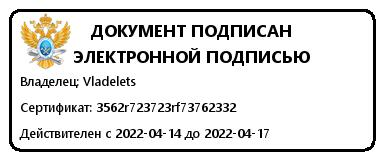
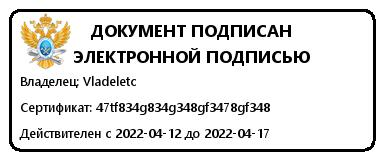
Начата абота над версией для командной строки

Changed region(s): [[0.25, 0.625, 0.7188, 0.7188], [0.4375, 0.8125, 0.4688, 0.875], [0.3438, 0.5, 0.375, 0.5312]]

diff --git a/src/main/java/com/webapi/application/CMDApplication.java b/src/main/java/com/webapi/application/CMDApplication.java
@@ -1,0 +1,158 @@
+package com.webapi.application;
+
+import com.webapi.application.controllers.FileUploadController;
+import com.webapi.application.handlers.Excel.ExcelHandler;
+import com.webapi.application.handlers.PDF.PDFHandler;
+import com.webapi.application.handlers.UploadedFileHandler;
+import com.webapi.application.handlers.Word.WordHandler;
+import com.webapi.application.models.FileConvertParamsModel;
+import com.webapi.application.services.signImage.SignImageCreator;
+
+import java.io.BufferedOutputStream;
+import java.io.File;
+import java.io.FileInputStream;
+import java.io.FileOutputStream;
+
+public class CMDApplication
+{
+    public static void main(String[] args)
+    {
+        args = new String[8];
+        args[0] = "C:\\Users\\ASUS\\Downloads\\Otchyot_po_praktike.docx";
+        args[1] = "Vladelets";
+        args[2] = "46r7346t3486tr834t83";
+        args[3] = "08.04.2022";
+        args[4] = "08.04.2023";
+        args[5] = "1";
+        args[6] = "0";
+        args[7] = "В конец документа";
+
+        if(args.length < 8)
+        {
+            System.out.println("Недостаточно параметров!");
+            System.exit(1);
+        }
+
+        File fileInput = new File(args[0]);
+        String signOwner = args[1];
+        String signCertificate = args[2];
+        String signDateFrom = args[3];
+        String signDateTo = args[4];
+        boolean drawLogo = Boolean.parseBoolean(args[5]);
+        boolean checkTransitionToNewPage = Boolean.parseBoolean(args[6]);
+        String insertType = args[7];
+
+        String fileInputOriginalName = fileInput.getName();
+        String currentDir = System.getProperty("user.dir");
+        String fileName = currentDir + "/uploadedfiles/" + fileInputOriginalName;   // получаем оригинальное название файла, который был загружен
+        FileConvertParamsModel convertParams = new FileConvertParamsModel();    // модель получаемых данных, для удобства
+
+        // заносим полученные параметры в модель данных
+        convertParams.setFileName(fileInputOriginalName);
+        convertParams.setSignOwner(signOwner);
+        convertParams.setSignCertificate(signCertificate);
+        convertParams.setSignDateStart(signDateFrom);
+        convertParams.setSignDateEnd(signDateTo);
+        convertParams.setDrawLogo(drawLogo);
+        convertParams.setCheckTransitionToNewPage(checkTransitionToNewPage);
+        switch (insertType)
+        {
+            case "В конец документа" -> convertParams.setInsertType(0);
+            case "По координатам" -> convertParams.setInsertType(1);
+            case "По тэгу" -> convertParams.setInsertType(2);
+            default -> convertParams.setInsertType(-1);
+        }
+
+        // проверка корректности входных данных
+        if(convertParams.getInsertType() == -1
+                || (convertParams.getInsertType() == 2
+                && !(fileName.endsWith(".docx") || fileName.endsWith(".doc") || fileName.endsWith(".rtf"))))
+        {
+            System.out.println("Error! Выбранный тип подписи неподходит для данного типа файлов!");
+            System.exit(1);
+        }
+
+        // начинаем обработку файла
+        if (!fileInput.exists())
+        {
+            try
+            {
+                // проверяем наличие папок для сохранения и вывода
+                boolean uploadDirCreated = true;
+                boolean outputDirCreated = true;
+
+                // папка сохранения
+                File uploadDir = new File("uploadedfiles/");
+                if(!uploadDir.exists())
+                {
+                    uploadDirCreated = uploadDir.mkdir();
+                }
+
+                // папка вывода
+                File outputDir = new File("output/");
+                if(!outputDir.exists())
+                {
+                    outputDirCreated = outputDir.mkdir();
+                }
+
+                // проверка наличия
+                if(!uploadDirCreated || !outputDirCreated)
+                {
+                    System.out.println("Не удалось загрузить файл, т.к. файловая система не позволяет выполнить сохранение!");
+                    System.exit(1);
+                }
+
+                // сохраняем файл на устройстве
+                byte[] bytes = new FileInputStream(fileInput).readAllBytes();
+                BufferedOutputStream stream = new BufferedOutputStream(new FileOutputStream(new File(fileName)));
+                stream.write(bytes);
+                stream.close();
+
+                // создаём изображение подписи
+                SignImageCreator signImageCreator = new SignImageCreator(); // создаём генератор изображения подписи
+                signImageCreator.setImageGerbPath(FileUploadController.signImageLogoPath);       // указываем путь к гербу
+                signImageCreator.createSignImage(FileUploadController.singImagePath, convertParams); // создаём изображение подписи
+
+                UploadedFileHandler documentHandler = null; // обработчик документов
+                String outputFileName = null;
+                // определяем тип полученного файла
+                if (fileName.endsWith(".docx") || fileName.endsWith(".doc") || fileName.endsWith(".rtf"))
+                {
+                    documentHandler = new WordHandler();
+                }
+                else if (fileName.endsWith(".pdf"))
+                {
+                    documentHandler = new PDFHandler();   // создаём обработчик
+                }
+                else if(fileName.endsWith(".xlsx") || fileName.endsWith(".xls"))
+                {
+                    documentHandler = new ExcelHandler();
+                }
+                else
+                {
+                    System.out.println("Данный тип файлов не поддерживается!");
+                    System.exit(1);
+                }
+
+                // обрабатываем полученный файл
+                documentHandler.setSingImagePath(FileUploadController.singImagePath); // указываем путь к картинке, которую нужно будет вставить
+                documentHandler.setParams(convertParams);    // указываем параметры обработки
+                outputFileName = documentHandler.processDocument(fileName);   // запускаем обработку
+
+                System.out.println("OK! http://localhost:8080/download?file=" + outputFileName);
+                System.exit(0);
+            }
+            catch (Exception e)
+            {
+                e.printStackTrace();
+                System.out.println("Error! Не удалось загрузить " + fileName + " => " + e.getMessage());
+                System.exit(1);
+            }
+        }
+        else
+        {
+            System.out.println("Error! Не удалось загрузить файл, потому что он пустой.");
+            System.exit(1);
+        }
+    }
+}
